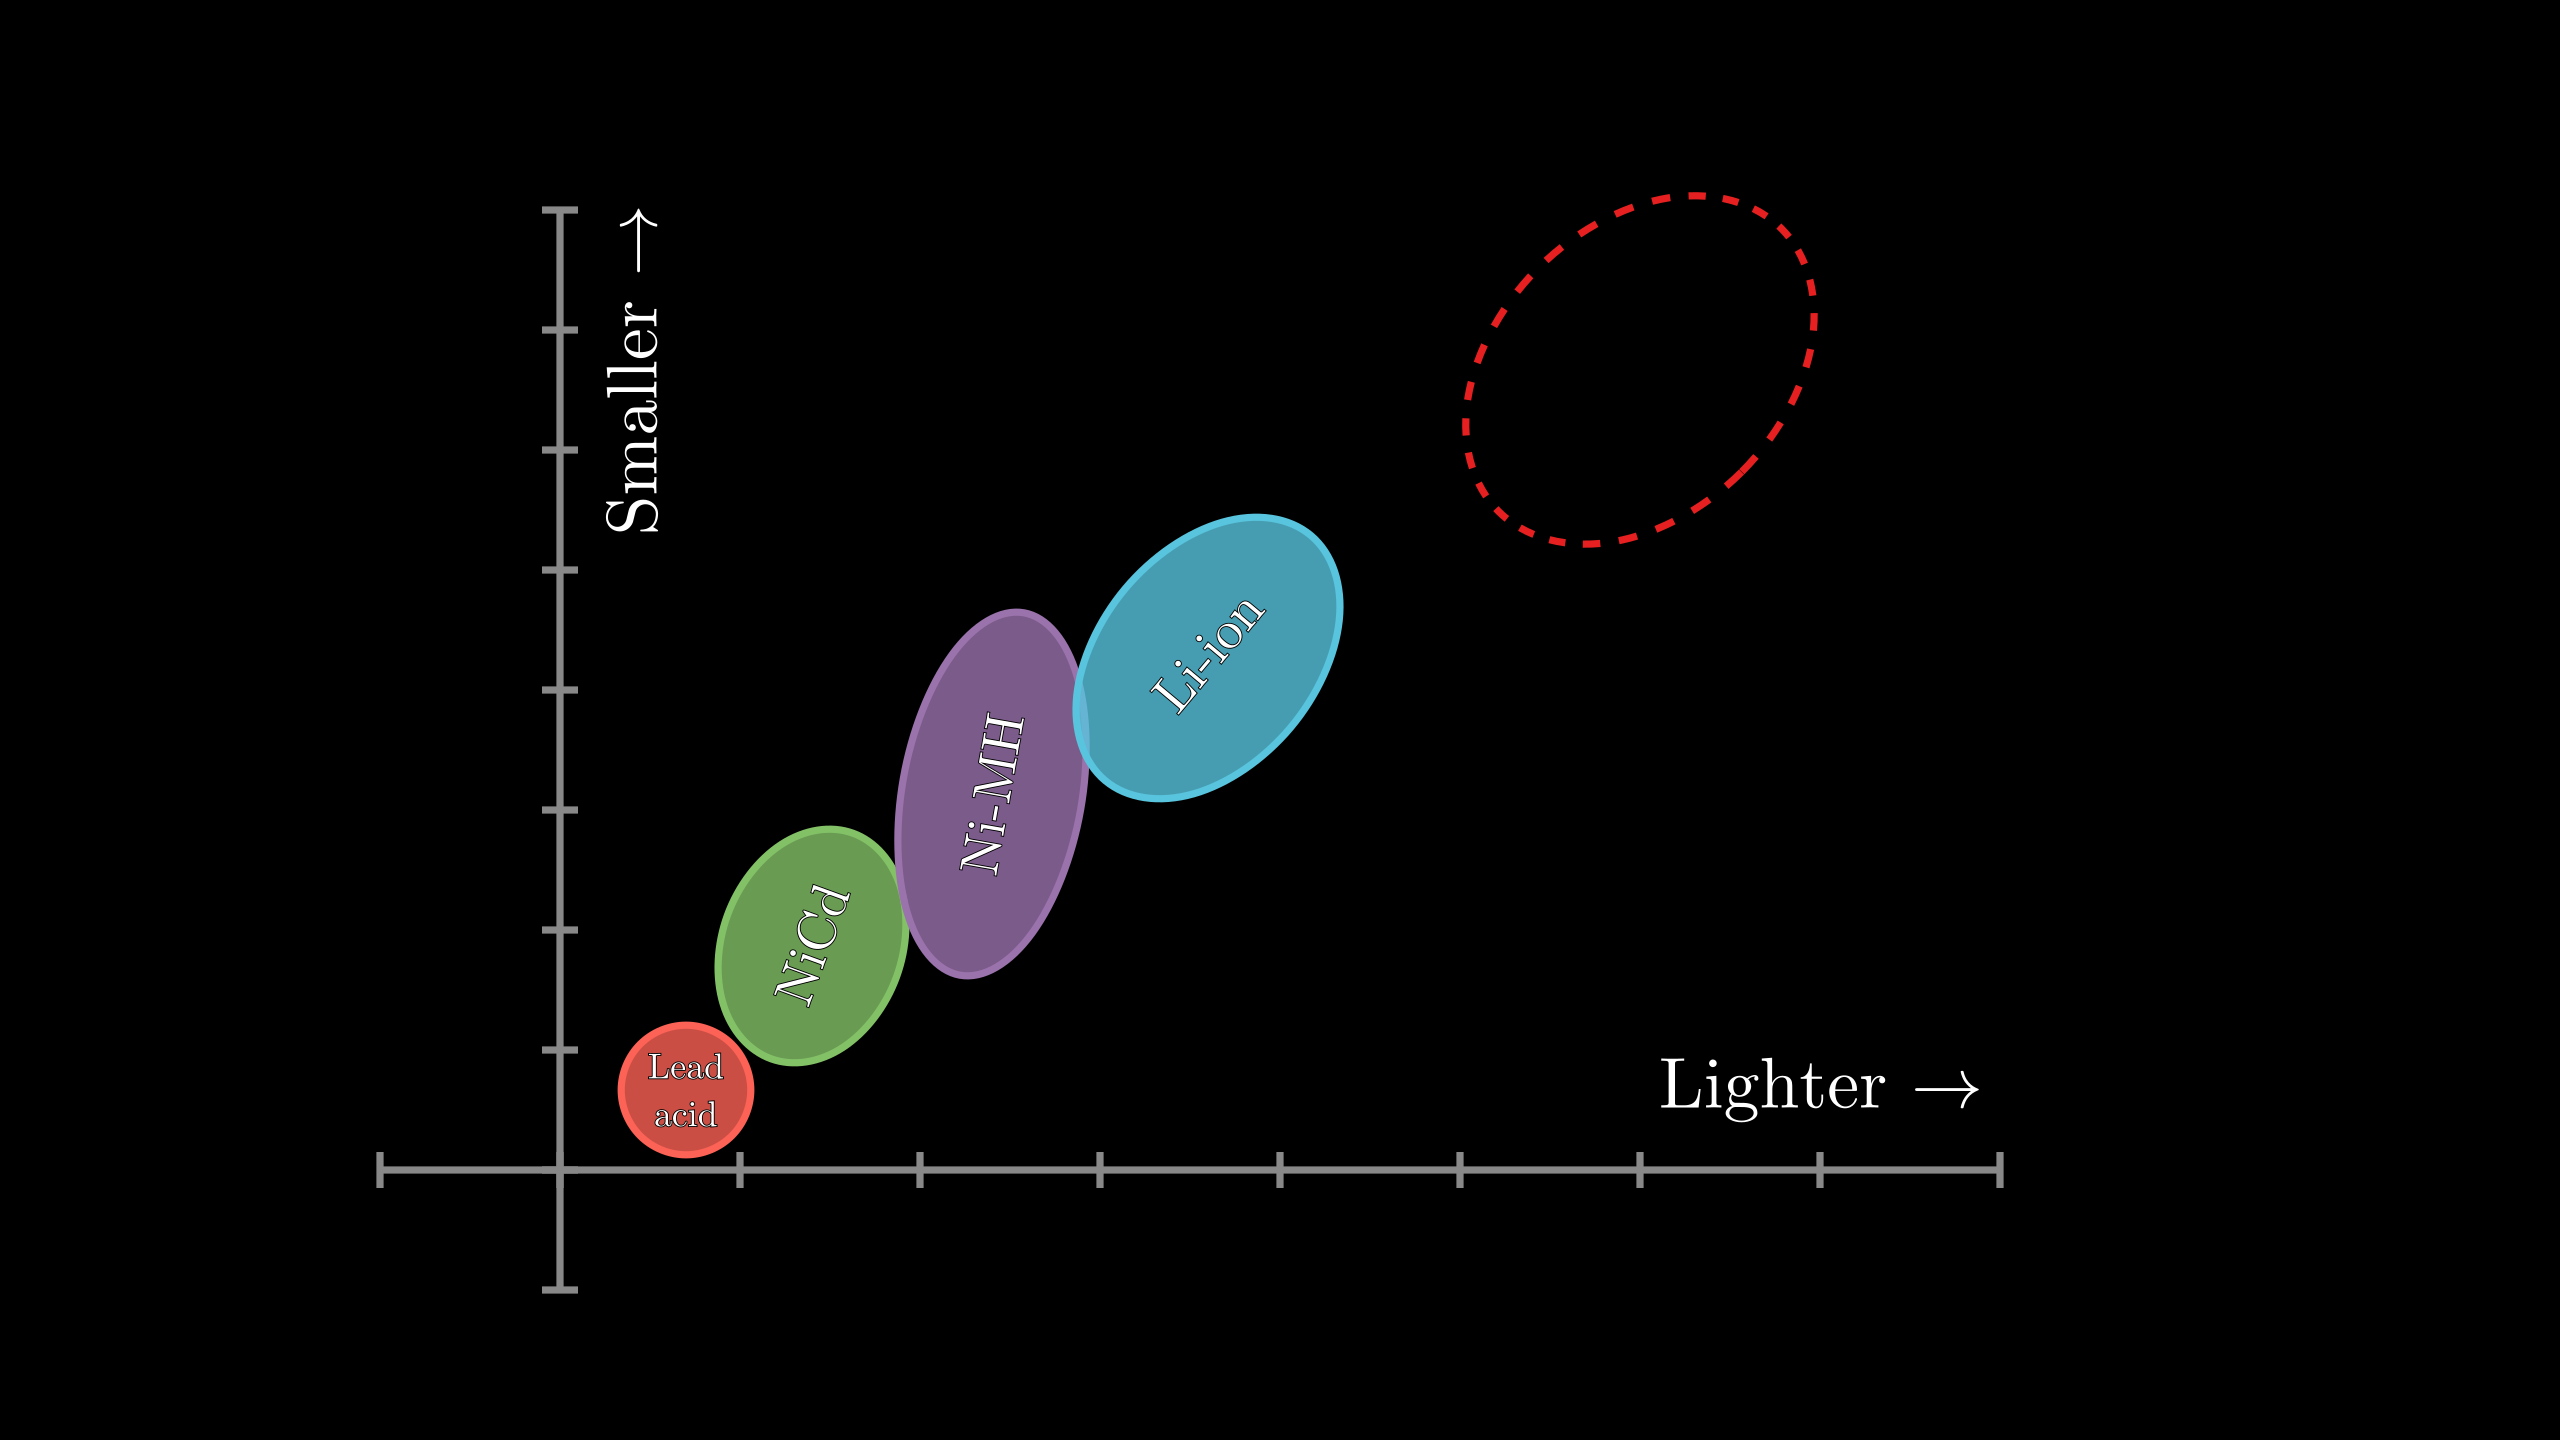
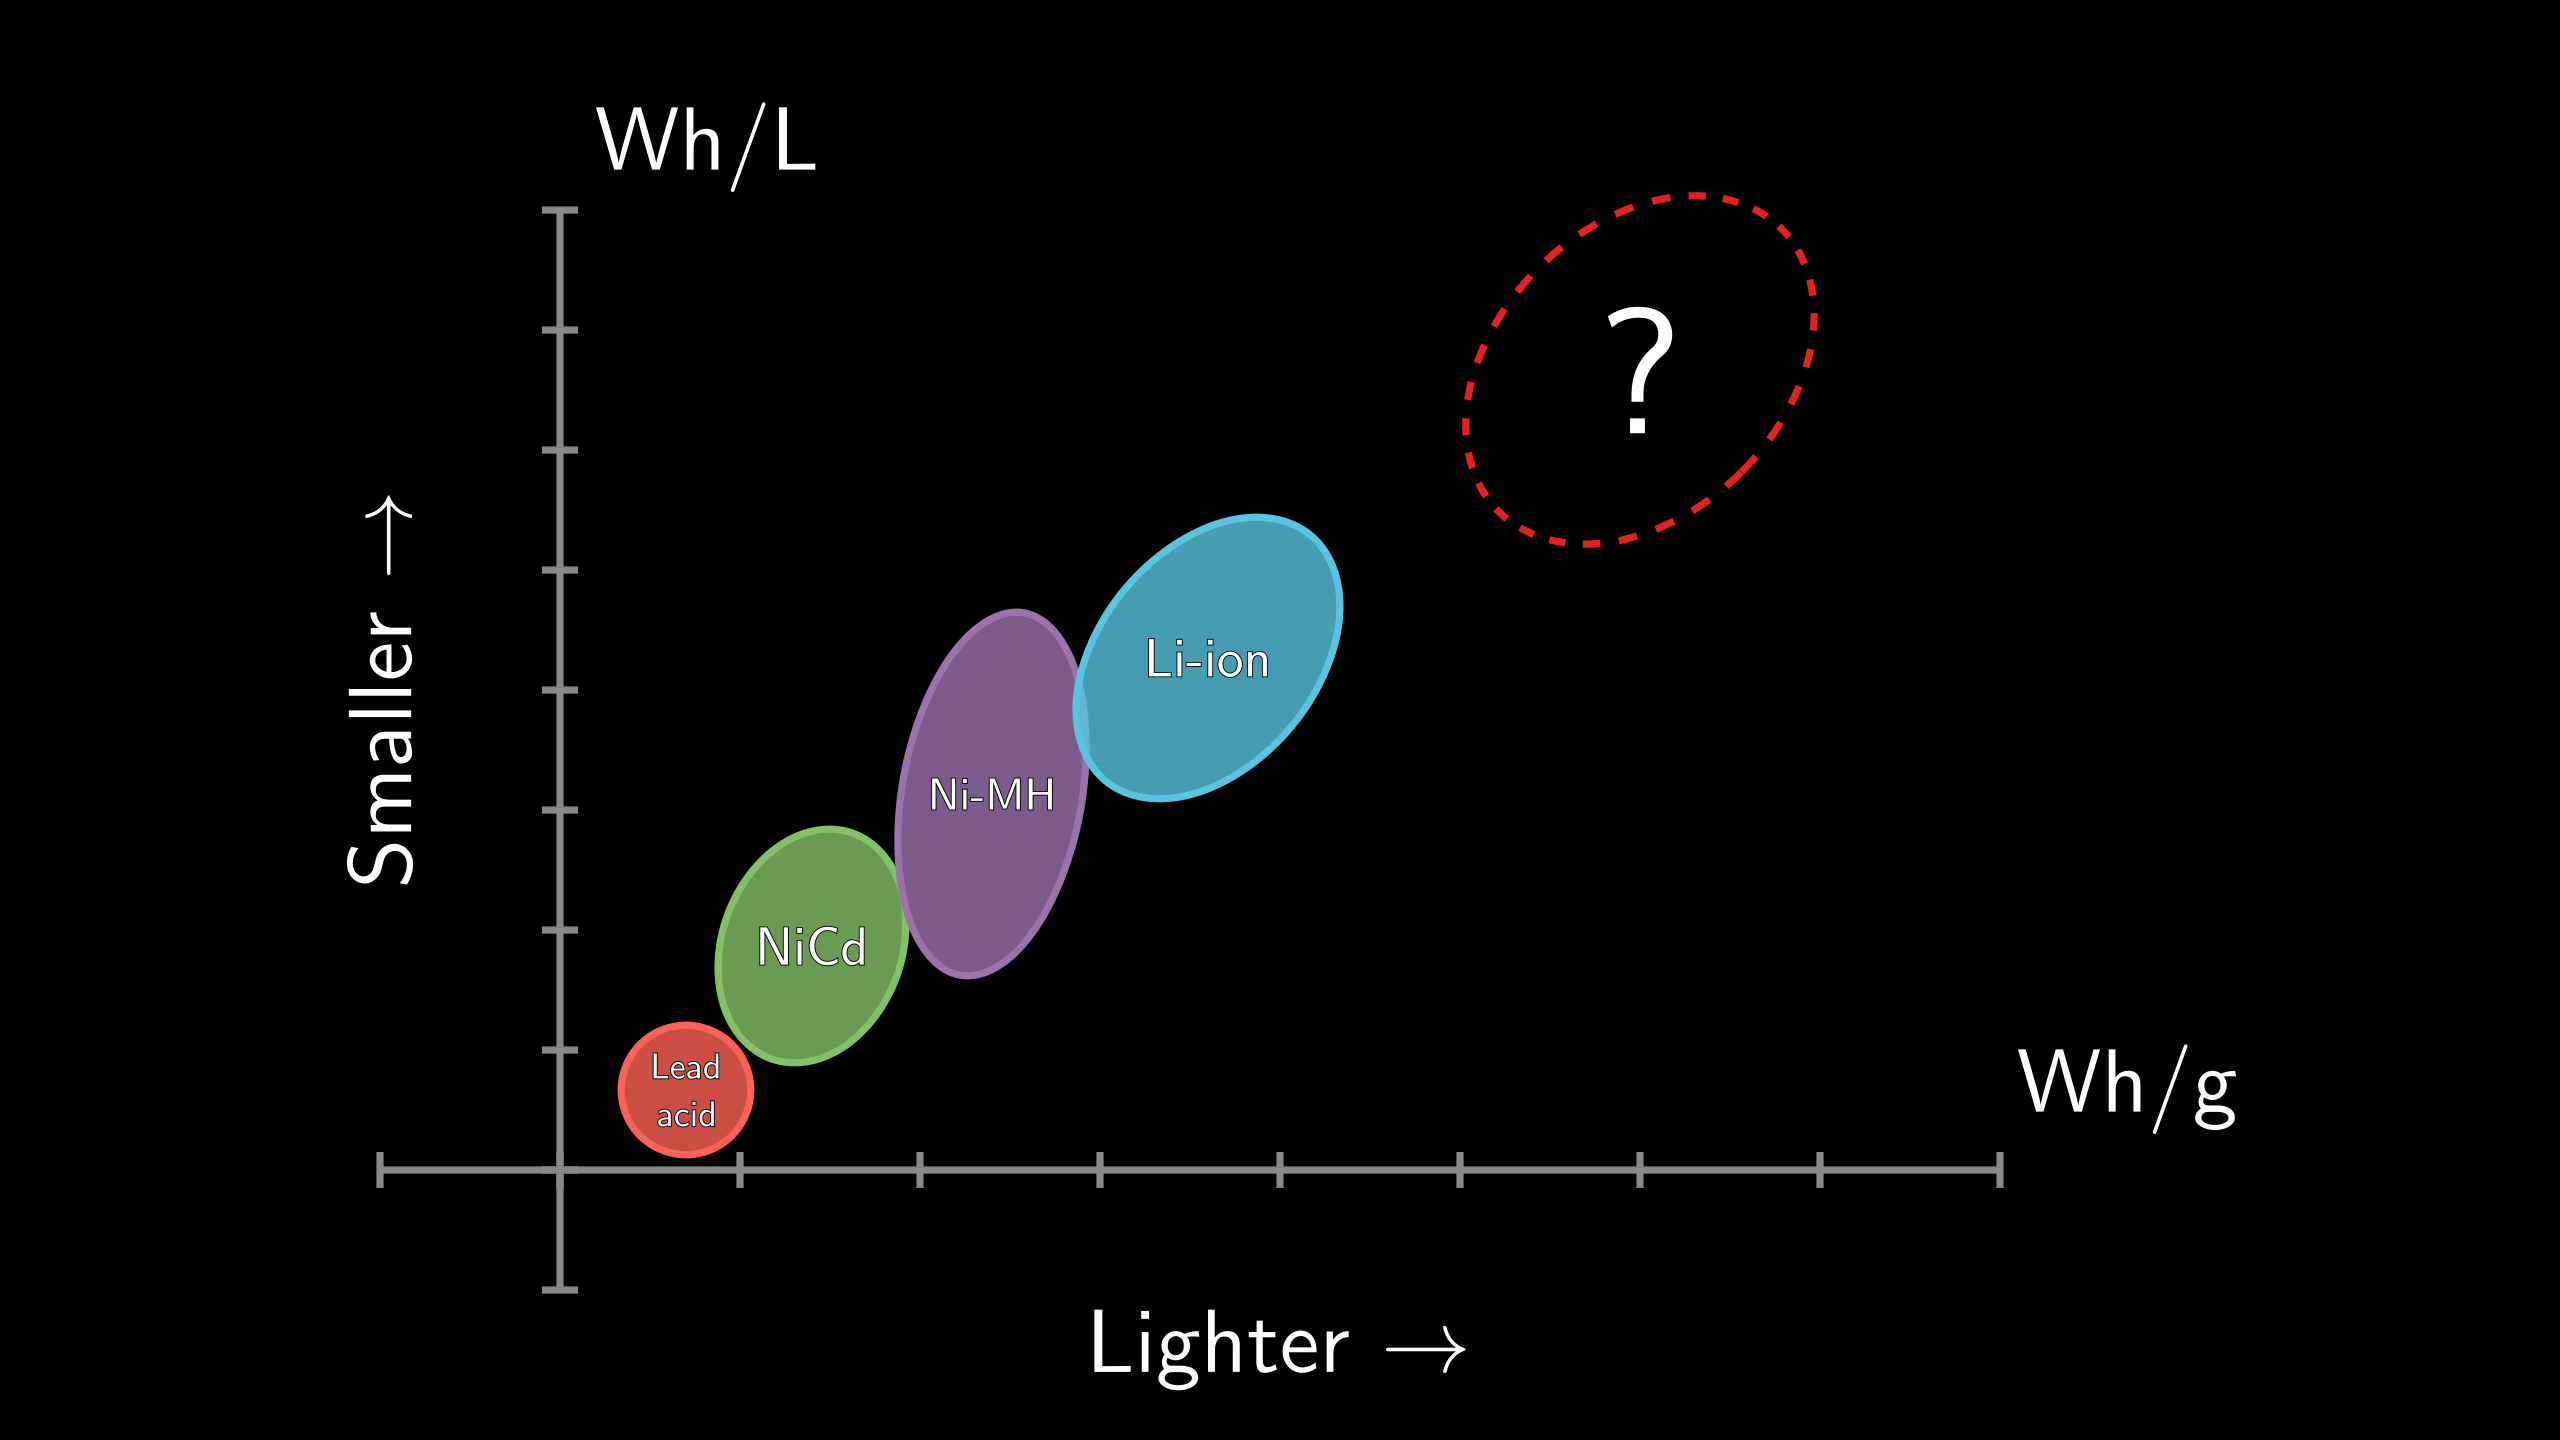
Final dump before offload

diff --git a/Script.md b/Script.md
@@ -1,37 +1,20 @@
 # Script 
 
-Timings
-
-| Slide        | Time | Σ    | Potential time save | Σ    |
-| ------------ | ---- | ---- | ------------------- | ---- |
-| Introduction | 0:25 | 0:25 | 0:00                | 0:00 |
-| Context      | 0:45 | 1:10 | 0:00                | 0:00 |
-| Plot         | 0:40 | 1:50 | 0:00                | 0:00 |
-| Inside       | 0:35 | 2:25 | 0:00                | 0:20 |
-| Composition  | 1:32 | 3:57 | 0:00                | 0:20 |
-| Interatomic  | 1:16 | 5:18 | 0:06                |      |
-
-In the scripts, key events are noted alongside the time at which they occur and the interval.
-
-The presentation should be okay as long as I remain within ± 10% of a given interval. 
-
-Running short looks awkward, but overrunning is more flustering. As such, aim to be slighly ahead if in doubt.
-
 ## Introduction Slide (0:00 - 0:30)
 
-Hello, I'm Matt Clarke, I'm a first year PhD student working with Saiful Islam on modelling battery materials.
+Hello, I'm Matt Clarke, I'm a first year PhD student working with Saiful Islam, and I use atomistic modelling to help understand and develop battery materials.
 
 > Overview slide - 10
 
-As we only have five minutes, I'm going to give you a quick whistlestop tour of batteries as a whole
+Now, as we only have five minutes, I'm going to give you a quick whistlestop tour of batteries as a whole
 
 > Materials
 
-...I'll go over the materials used in batteries, both commercially those coming through the works...
+...I'll go over the materials that we use in batteries, the sustainability issues associated with these, and what's coming through the works...
 
 > Modelling 
 
-… And finally, I'll try and show how modelling techniques can be used to help give valuable insights into the properties and performance of batteries.
+… And finally, I'll try and show how using modelling techniques to study these materials can help identify and understand new materials for next generation batteries.
 
 
 
@@ -39,13 +22,13 @@ As we only have five minutes, I'm going to give you a quick whistlestop tour of 
 
 Ok, so why are we interested in batteries?
 
-Well, batteries are a really interesting area to work in, in that a small improvement in the fundamental chemistry can impact a wide range of other fields.
+Well, batteries are a really interesting area to work in, in that a coming up with a small improvement in the fundamental chemistry can impact a wide range of other fields.
 
 Renewable energy sources are often intermittent, so widespread adoption will need an energy vector which is cheap and reliable to provide power when needed.
 
 Vehicle electrification is another interesting case, as each new battery technology has the potential to both disrupt a multibillion dollar industry and provide huge environmental benefits.
 
-And portable electronics are getting more powerful, so it's a struggle to keep up with the shift towards thinner and longer lasting phones, let alone improve...
+And consumer demand for thinner and longer lasting portable electronics is pushing the current battery chemistries to their limits.
 
 ## Plot slide
 
@@ -53,13 +36,9 @@ And portable electronics are getting more powerful, so it's a struggle to keep u
 
 One of the factors we are interested in is energy density, namely how much energy can we pack into a given volume or weight
 
-Lead acid batteries, being both heavy and large for their stored energy end upin the bottom corner
+Lead acid batteries are very large putting them at the bottom of this graph, and heavy, putting them to the left. Li-ion batteries outperformed it's predecessors, and the gap between NiMh and Li-ion here arguably corresponds to the leap that caused portable electronics revolution.
 
-Now on this graph, the gap between NiMH and Li-ion was enough to trigger the portable electronics revolution, but we're hitting the limits of what conventional Li-ion can do.
-
-As a ballpark figure, for widespread vehicle electrification, we need batteries that are around *here*.
-
-> Energy density. More energy, with less battery (lighter, smaller, both
+With that in mind, the fact that we need to be here for widespread adoption of vehicle electrification, should highlight the scale of the problem we're up against.
 
 ### Inside a battery
 
@@ -81,29 +60,21 @@ As the positively charged Li-ions leave or enter the cathode, something has to c
 
 In your phone, we use cobalt for this. Specifically, LCO.
 
-Now cobalt has  a whole range of sustainability issues including limited reserves, a ethically dubious supply chain, and it's expensive. 
+Now cobalt has  a whole range of sustainability issues. It has limited reserves, and these reserves are focused in geopolitically unstable regions, causing price fluctuations and ethical concerns to surround its procurement.
+
+As such, cathode chemistries which minimise the use of cobalt are preferred.
+
+Different applications require different chemistries. In the BMW i3, NMC is used, substituting nickel and manganese in for a portion of the cobalt. In the Tesla, Nickel and Aluminium are substituted in.
 
 
 
-> Cars
+Both of these chemistries are more inherently safe and longer lasting than LCO, but this comes at the cost of energy density.
 
-Different applications require different chemistries, all of which their own issues
+The exact compositions aren't set in stone either.
 
-NMC is found in the BMW i3, and NCA in the Tesla
+NMC 111, meaning a 1:1:1 ratio of the transition metals, is currently used commercially, but ratios like 8:11 are of significant research interest
 
-There is a general push to try and maximise the Nickel content, both to increase power and decouple battery production from cobalt supplies
-
-These compositions aren't set in stone either.
-
-NMC 111 is currently produced commercially, but 811 is of interest
-
-So how do these materials translate into batteries?
-
-Intercalation cathodes have a structure, for NMC a layered structure, which allows the repeated extraction and insertion of some of the Li ions.
-
-Changing the composition or broader structure of this material can provide different properties 
-
-We still here find ourself at a limiting point, we can change the metal ratios to improve performance, but this will lead to diminishing returns.
+Changing the metal ratio can only get us so far. If we want a big jump in performance, we need more than incremental changes.
 
 This is where Li-rich cathodes come in. 
 
@@ -112,8 +83,6 @@ We substitute some of the TM sites for further Li ions, dramatically increasing 
 ### Modelling + ack (1:15)
 
 Finally, what do I actually do here?
-
-I've gone for salt here because it's easier to draw, but same idea.
 
 So firstly, starting with some experimental data, my job is to find a simple set of rules that can recreate the important aspects of this structure.
 
@@ -129,7 +98,7 @@ We can use these same rules to probe other systems, which are less easy to synth
 
 And of course, we can probe atom scale features or phenomenon which cannot be measured experimentally such as looking at isolated defects.
 
-Now I should of course clarify, this is a simplification. There are layers on layers of complexity you can add to these models, but none I can explain in 5 minutes!
+Now more complex systems require more complex potentials. While I can't explain these in 5 minutes, I'm hoping I'll be able to do it in three years.
 
 So with that, thanks to all of these people and thanks for listening.
 
